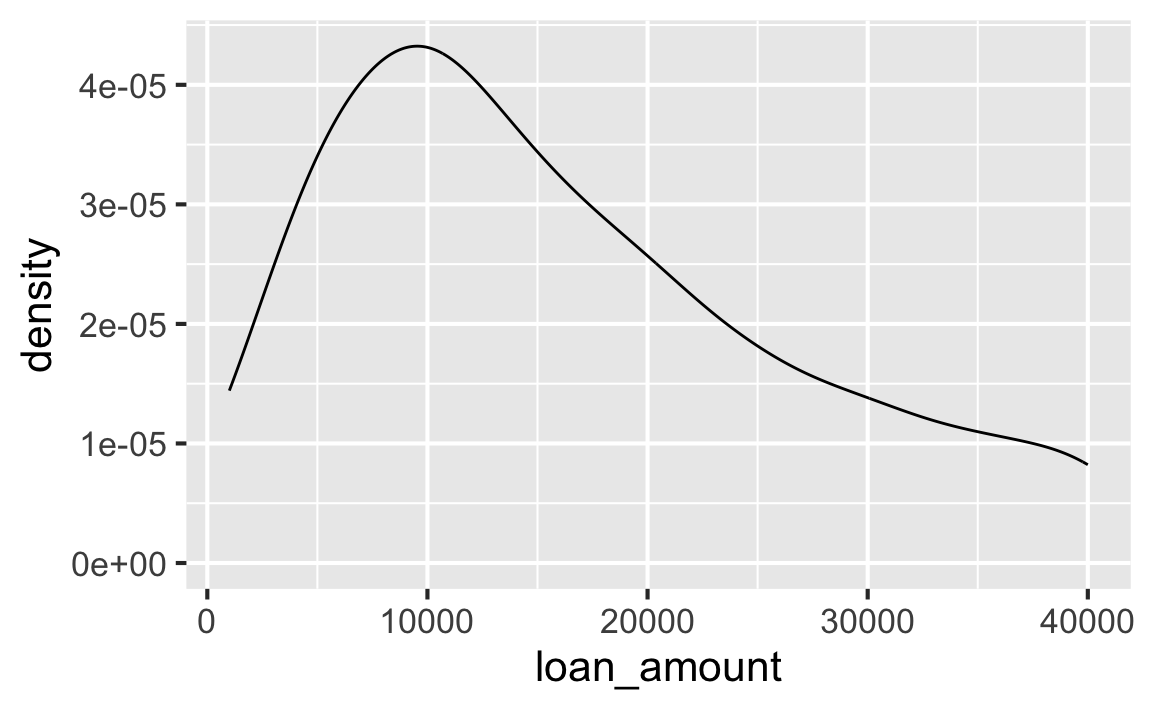
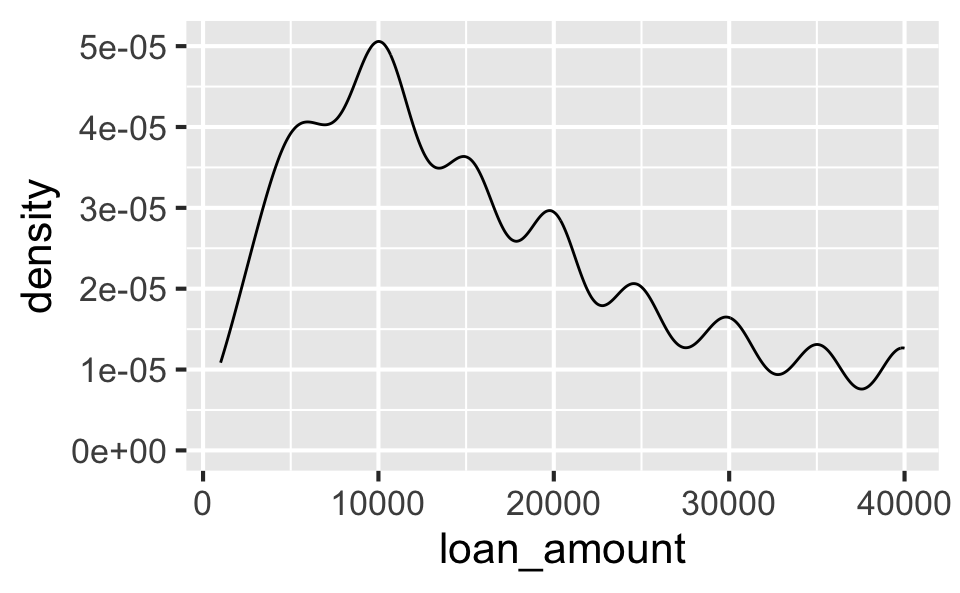
edits

diff --git a/_site/slides/3-3-1-visualize-summarize-numerical/3-3-1-visualize-summarize-numerical.html b/_site/slides/3-3-1-visualize-summarize-numerical/3-3-1-visualize-summarize-numerical.html
@@ -519,53 +519,75 @@ $ debt_to_income &lt;dbl&gt; 18.01, 5.04, 21.15, 10.16, 57.96, 6…</code></pre>
 </div>
 </div>
 </div>
-</section><section id="histograms-and-binwidth" class="slide level2 nostretch"><h2>Histograms and binwidth</h2>
+</section><section id="histograms-and-binwidth" class="slide level2"><h2>Histograms and binwidth</h2>
 <div class="cell">
-<div class="sourceCode cell-code" id="cb7"><pre class="sourceCode numberSource r number-lines code-with-copy"><code class="sourceCode r"><span id="cb7-1"><a></a><span class="fu">ggplot</span>(loans, <span class="fu">aes</span>(<span class="at">x =</span> loan_amount)) <span class="sc">+</span></span>
-<span id="cb7-2"><a></a>  <span class="fu">geom_histogram</span>(<span class="at">binwidth =</span> <span class="dv">1000</span>)</span></code><button title="Copy to Clipboard" class="code-copy-button"><i class="bi"></i></button></pre></div>
+<div class="sourceCode cell-code" id="cb7"><pre class="sourceCode numberSource r number-lines code-with-copy"><code class="sourceCode r"><span id="cb7-1"><a></a>p_loans <span class="ot">&lt;-</span> <span class="fu">ggplot</span>(loans, <span class="fu">aes</span>(<span class="at">x =</span> loan_amount))</span></code><button title="Copy to Clipboard" class="code-copy-button"><i class="bi"></i></button></pre></div>
+</div>
+<p><br></p>
+<div class="columns">
+<div class="column fragment" style="width:33%;">
+<div class="cell">
+<div class="sourceCode cell-code" id="cb8"><pre class="sourceCode numberSource r number-lines code-with-copy"><code class="sourceCode r"><span id="cb8-1"><a></a>p_loans <span class="sc">+</span></span>
+<span id="cb8-2"><a></a>  <span class="fu">geom_histogram</span>(</span>
+<span id="cb8-3"><a></a>    <span class="at">binwidth =</span> <span class="dv">1000</span></span>
+<span id="cb8-4"><a></a>  )</span></code><button title="Copy to Clipboard" class="code-copy-button"><i class="bi"></i></button></pre></div>
 <div class="cell-output-display">
 <div>
-<figure><p><img data-src="3-3-1-visualize-summarize-numerical_files/figure-revealjs/unnamed-chunk-10-1.png" width="576"></p>
+<figure><p><img data-src="3-3-1-visualize-summarize-numerical_files/figure-revealjs/unnamed-chunk-11-1.png" width="480"></p>
 </figure>
 </div>
 </div>
 </div>
-</section><section id="histograms-and-binwidth-1" class="slide level2 nostretch"><h2>Histograms and binwidth</h2>
+</div>
+<div class="column fragment" style="width:33%;">
 <div class="cell">
-<div class="sourceCode cell-code" id="cb8"><pre class="sourceCode numberSource r number-lines code-with-copy"><code class="sourceCode r"><span id="cb8-1"><a></a><span class="fu">ggplot</span>(loans, <span class="fu">aes</span>(<span class="at">x =</span> loan_amount)) <span class="sc">+</span></span>
-<span id="cb8-2"><a></a>  <span class="fu">geom_histogram</span>(<span class="at">binwidth =</span> <span class="dv">5000</span>)</span></code><button title="Copy to Clipboard" class="code-copy-button"><i class="bi"></i></button></pre></div>
+<div class="sourceCode cell-code" id="cb9"><pre class="sourceCode numberSource r number-lines code-with-copy"><code class="sourceCode r"><span id="cb9-1"><a></a>p_loans <span class="sc">+</span></span>
+<span id="cb9-2"><a></a>  <span class="fu">geom_histogram</span>(</span>
+<span id="cb9-3"><a></a>    <span class="at">binwidth =</span> <span class="dv">5000</span></span>
+<span id="cb9-4"><a></a>  )</span></code><button title="Copy to Clipboard" class="code-copy-button"><i class="bi"></i></button></pre></div>
 <div class="cell-output-display">
 <div>
-<figure><p><img data-src="3-3-1-visualize-summarize-numerical_files/figure-revealjs/unnamed-chunk-11-1.png" width="576"></p>
+<figure><p><img data-src="3-3-1-visualize-summarize-numerical_files/figure-revealjs/unnamed-chunk-12-1.png" width="480"></p>
 </figure>
 </div>
 </div>
 </div>
-</section><section id="histograms-and-binwidth-2" class="slide level2 nostretch"><h2>Histograms and binwidth</h2>
+</div>
+<div class="column fragment" style="width:33%;">
 <div class="cell">
-<div class="sourceCode cell-code" id="cb9"><pre class="sourceCode numberSource r number-lines code-with-copy"><code class="sourceCode r"><span id="cb9-1"><a></a><span class="fu">ggplot</span>(loans, <span class="fu">aes</span>(<span class="at">x =</span> loan_amount)) <span class="sc">+</span></span>
-<span id="cb9-2"><a></a>  <span class="fu">geom_histogram</span>(<span class="at">binwidth =</span> <span class="dv">20000</span>)</span></code><button title="Copy to Clipboard" class="code-copy-button"><i class="bi"></i></button></pre></div>
+<div class="sourceCode cell-code" id="cb10"><pre class="sourceCode numberSource r number-lines code-with-copy"><code class="sourceCode r"><span id="cb10-1"><a></a>p_loans <span class="sc">+</span></span>
+<span id="cb10-2"><a></a>  <span class="fu">geom_histogram</span>(</span>
+<span id="cb10-3"><a></a>    <span class="at">binwidth =</span> <span class="dv">20000</span></span>
+<span id="cb10-4"><a></a>  )</span></code><button title="Copy to Clipboard" class="code-copy-button"><i class="bi"></i></button></pre></div>
 <div class="cell-output-display">
 <div>
-<figure><p><img data-src="3-3-1-visualize-summarize-numerical_files/figure-revealjs/unnamed-chunk-12-1.png" width="576"></p>
+<figure><p><img data-src="3-3-1-visualize-summarize-numerical_files/figure-revealjs/unnamed-chunk-13-1.png" width="480"></p>
 </figure>
+</div>
+</div>
 </div>
 </div>
 </div>
 </section><section id="histogram-customization" class="slide level2"><h2>Histogram customization</h2>
 <div class="cell columns column-output-location">
 <div class="column">
-<div class="sourceCode cell-code" id="cb10" data-code-line-numbers="|2|3-7"><pre class="sourceCode numberSource r number-lines code-with-copy"><code class="sourceCode r"><span id="cb10-1"><a></a><span class="fu">ggplot</span>(loans, <span class="fu">aes</span>(<span class="at">x =</span> loan_amount)) <span class="sc">+</span></span>
-<span id="cb10-2"><a></a>  <span class="fu">geom_histogram</span>(<span class="at">binwidth =</span> <span class="dv">5000</span>) <span class="sc">+</span></span>
-<span id="cb10-3"><a></a>  <span class="fu">labs</span>(</span>
-<span id="cb10-4"><a></a>    <span class="at">x =</span> <span class="st">"Loan amount ($)"</span>,</span>
-<span id="cb10-5"><a></a>    <span class="at">y =</span> <span class="st">"Frequency"</span>,</span>
-<span id="cb10-6"><a></a>    <span class="at">title =</span> <span class="st">"Amounts of Lending Club loans"</span></span>
-<span id="cb10-7"><a></a>  )</span></code><button title="Copy to Clipboard" class="code-copy-button"><i class="bi"></i></button></pre></div>
+<div class="sourceCode cell-code" id="cb11" data-code-line-numbers="|2|3-7|8|9"><pre class="sourceCode numberSource r number-lines code-with-copy"><code class="sourceCode r"><span id="cb11-1"><a></a><span class="fu">ggplot</span>(loans, <span class="fu">aes</span>(<span class="at">x =</span> loan_amount)) <span class="sc">+</span></span>
+<span id="cb11-2"><a></a>  <span class="fu">geom_histogram</span>(<span class="at">binwidth =</span> <span class="dv">5000</span>) <span class="sc">+</span></span>
+<span id="cb11-3"><a></a>  <span class="fu">labs</span>(</span>
+<span id="cb11-4"><a></a>    <span class="at">x =</span> <span class="st">"Loan amount ($)"</span>,</span>
+<span id="cb11-5"><a></a>    <span class="at">y =</span> <span class="st">"Frequency"</span>,</span>
+<span id="cb11-6"><a></a>    <span class="at">title =</span> <span class="st">"Amounts of Lending Club loans"</span></span>
+<span id="cb11-7"><a></a>  ) <span class="sc">+</span></span>
+<span id="cb11-8"><a></a>  <span class="fu">scale_x_continuous</span>(</span>
+<span id="cb11-9"><a></a>    <span class="at">labels =</span> <span class="fu">label_dollar</span>()</span>
+<span id="cb11-10"><a></a>  ) <span class="sc">+</span></span>
+<span id="cb11-11"><a></a>  <span class="fu">scale_y_continuous</span>(</span>
+<span id="cb11-12"><a></a>    <span class="at">labels =</span> <span class="fu">label_number</span>(<span class="at">big.mark =</span> <span class="st">","</span>)</span>
+<span id="cb11-13"><a></a>  )</span></code><button title="Copy to Clipboard" class="code-copy-button"><i class="bi"></i></button></pre></div>
 </div><div class="column">
 <div class="cell-output-display">
 <div>
-<figure><p><img data-src="3-3-1-visualize-summarize-numerical_files/figure-revealjs/unnamed-chunk-13-1.png" width="576"></p>
+<figure><p><img data-src="3-3-1-visualize-summarize-numerical_files/figure-revealjs/unnamed-chunk-14-1.png" width="576"></p>
 </figure>
 </div>
 </div>
@@ -577,24 +599,24 @@ $ debt_to_income &lt;dbl&gt; 18.01, 5.04, 21.15, 10.16, 57.96, 6…</code></pre>
 <li>Smoothness can be <code>adjust</code>ed</li>
 </ul>
 <div class="columns">
-<div class="column" style="width:50%;">
+<div class="column" style="width:35%;">
 <div class="cell">
-<div class="sourceCode cell-code" id="cb11"><pre class="sourceCode numberSource r number-lines code-with-copy"><code class="sourceCode r"><span id="cb11-1"><a></a><span class="fu">ggplot</span>(loans, <span class="fu">aes</span>(<span class="at">x =</span> loan_amount)) <span class="sc">+</span></span>
-<span id="cb11-2"><a></a>  <span class="fu">geom_density</span>()</span></code><button title="Copy to Clipboard" class="code-copy-button"><i class="bi"></i></button></pre></div>
+<div class="sourceCode cell-code" id="cb12"><pre class="sourceCode numberSource r number-lines code-with-copy"><code class="sourceCode r"><span id="cb12-1"><a></a>p_loans<span class="sc">+</span></span>
+<span id="cb12-2"><a></a>  <span class="fu">geom_density</span>()</span></code><button title="Copy to Clipboard" class="code-copy-button"><i class="bi"></i></button></pre></div>
 <div class="cell-output-display">
 <div>
-<figure><p><img data-src="3-3-1-visualize-summarize-numerical_files/figure-revealjs/unnamed-chunk-14-1.png" width="576"></p>
+<figure><p><img data-src="3-3-1-visualize-summarize-numerical_files/figure-revealjs/unnamed-chunk-15-1.png" width="480"></p>
 </figure>
 </div>
 </div>
 </div>
-</div><div class="column" style="width:50%;">
+</div><div class="column" style="width:35%;">
 <div class="cell">
-<div class="sourceCode cell-code" id="cb12"><pre class="sourceCode numberSource r number-lines code-with-copy"><code class="sourceCode r"><span id="cb12-1"><a></a><span class="fu">ggplot</span>(loans, <span class="fu">aes</span>(<span class="at">x =</span> loan_amount)) <span class="sc">+</span></span>
-<span id="cb12-2"><a></a>  <span class="fu">geom_density</span>(<span class="at">adjust =</span> <span class="dv">2</span>)</span></code><button title="Copy to Clipboard" class="code-copy-button"><i class="bi"></i></button></pre></div>
+<div class="sourceCode cell-code" id="cb13"><pre class="sourceCode numberSource r number-lines code-with-copy"><code class="sourceCode r"><span id="cb13-1"><a></a>p_loans <span class="sc">+</span></span>
+<span id="cb13-2"><a></a>  <span class="fu">geom_density</span>(<span class="at">adjust =</span> <span class="dv">2</span>)</span></code><button title="Copy to Clipboard" class="code-copy-button"><i class="bi"></i></button></pre></div>
 <div class="cell-output-display">
 <div>
-<figure><p><img data-src="3-3-1-visualize-summarize-numerical_files/figure-revealjs/unnamed-chunk-15-1.png" width="576"></p>
+<figure><p><img data-src="3-3-1-visualize-summarize-numerical_files/figure-revealjs/unnamed-chunk-16-1.png" width="480"></p>
 </figure>
 </div>
 </div>
@@ -608,18 +630,7 @@ $ debt_to_income &lt;dbl&gt; 18.01, 5.04, 21.15, 10.16, 57.96, 6…</code></pre>
 <li>Makes outliers very clear (according to a strict definition of an outlier)</li>
 </ul>
 <div class="cell">
-<div class="sourceCode cell-code" id="cb13"><pre class="sourceCode numberSource r number-lines code-with-copy"><code class="sourceCode r"><span id="cb13-1"><a></a><span class="fu">ggplot</span>(loans, <span class="fu">aes</span>(<span class="at">x =</span> interest_rate)) <span class="sc">+</span></span>
-<span id="cb13-2"><a></a>  <span class="fu">geom_boxplot</span>()</span></code><button title="Copy to Clipboard" class="code-copy-button"><i class="bi"></i></button></pre></div>
-<div class="cell-output-display">
-<div>
-<figure><p><img data-src="3-3-1-visualize-summarize-numerical_files/figure-revealjs/unnamed-chunk-16-1.png" width="576"></p>
-</figure>
-</div>
-</div>
-</div>
-</section><section id="box-plot-and-outliers" class="slide level2 nostretch"><h2>Box plot and outliers</h2>
-<div class="cell">
-<div class="sourceCode cell-code" id="cb14"><pre class="sourceCode numberSource r number-lines code-with-copy"><code class="sourceCode r"><span id="cb14-1"><a></a><span class="fu">ggplot</span>(loans, <span class="fu">aes</span>(<span class="at">x =</span> annual_income)) <span class="sc">+</span></span>
+<div class="sourceCode cell-code" id="cb14"><pre class="sourceCode numberSource r number-lines code-with-copy"><code class="sourceCode r"><span id="cb14-1"><a></a>p_loans <span class="sc">+</span></span>
 <span id="cb14-2"><a></a>  <span class="fu">geom_boxplot</span>()</span></code><button title="Copy to Clipboard" class="code-copy-button"><i class="bi"></i></button></pre></div>
 <div class="cell-output-display">
 <div>
@@ -628,23 +639,38 @@ $ debt_to_income &lt;dbl&gt; 18.01, 5.04, 21.15, 10.16, 57.96, 6…</code></pre>
 </div>
 </div>
 </div>
-</section><section id="box-plot-customization" class="slide level2"><h2>Box plot customization</h2>
-<div class="cell columns column-output-location">
-<div class="column">
-<div class="sourceCode cell-code" id="cb15" data-code-line-numbers="|7-10"><pre class="sourceCode numberSource r number-lines code-with-copy"><code class="sourceCode r"><span id="cb15-1"><a></a><span class="fu">ggplot</span>(loans, <span class="fu">aes</span>(<span class="at">x =</span> interest_rate)) <span class="sc">+</span></span>
-<span id="cb15-2"><a></a>  <span class="fu">geom_boxplot</span>() <span class="sc">+</span></span>
-<span id="cb15-3"><a></a>  <span class="fu">labs</span>(</span>
-<span id="cb15-4"><a></a>    <span class="at">x =</span> <span class="st">"Interest rate (%)"</span>, <span class="at">y =</span> <span class="cn">NULL</span>,</span>
-<span id="cb15-5"><a></a>    <span class="at">title =</span> <span class="st">"Interest rates of Lending Club loans"</span></span>
-<span id="cb15-6"><a></a>  ) <span class="sc">+</span></span>
-<span id="cb15-7"><a></a>  <span class="fu">theme</span>(</span>
-<span id="cb15-8"><a></a>    <span class="at">axis.ticks.y =</span> <span class="fu">element_blank</span>(),</span>
-<span id="cb15-9"><a></a>    <span class="at">axis.text.y =</span> <span class="fu">element_blank</span>()</span>
-<span id="cb15-10"><a></a>  )</span></code><button title="Copy to Clipboard" class="code-copy-button"><i class="bi"></i></button></pre></div>
-</div><div class="column">
+</section><section id="box-plot-and-outliers" class="slide level2 nostretch"><h2>Box plot and outliers</h2>
+<div class="cell">
+<div class="sourceCode cell-code" id="cb15"><pre class="sourceCode numberSource r number-lines code-with-copy"><code class="sourceCode r"><span id="cb15-1"><a></a><span class="fu">ggplot</span>(loans, <span class="fu">aes</span>(<span class="at">x =</span> interest_rate)) <span class="sc">+</span></span>
+<span id="cb15-2"><a></a>  <span class="fu">geom_boxplot</span>()</span></code><button title="Copy to Clipboard" class="code-copy-button"><i class="bi"></i></button></pre></div>
 <div class="cell-output-display">
 <div>
 <figure><p><img data-src="3-3-1-visualize-summarize-numerical_files/figure-revealjs/unnamed-chunk-18-1.png" width="576"></p>
+</figure>
+</div>
+</div>
+</div>
+</section><section id="box-plot-customization" class="slide level2"><h2>Box plot customization</h2>
+<div class="cell columns column-output-location">
+<div class="column">
+<div class="sourceCode cell-code" id="cb16" data-code-line-numbers="|3-5|6-10|11-14"><pre class="sourceCode numberSource r number-lines code-with-copy"><code class="sourceCode r"><span id="cb16-1"><a></a><span class="fu">ggplot</span>(loans, <span class="fu">aes</span>(<span class="at">x =</span> interest_rate)) <span class="sc">+</span></span>
+<span id="cb16-2"><a></a>  <span class="fu">geom_boxplot</span>() <span class="sc">+</span></span>
+<span id="cb16-3"><a></a>  <span class="fu">scale_x_continuous</span>(</span>
+<span id="cb16-4"><a></a>    <span class="at">labels =</span> <span class="fu">label_percent</span>()</span>
+<span id="cb16-5"><a></a>  ) <span class="sc">+</span></span>
+<span id="cb16-6"><a></a>  <span class="fu">labs</span>(</span>
+<span id="cb16-7"><a></a>    <span class="at">x =</span> <span class="st">"Interest rate"</span>, </span>
+<span id="cb16-8"><a></a>    <span class="at">y =</span> <span class="cn">NULL</span>,</span>
+<span id="cb16-9"><a></a>    <span class="at">title =</span> <span class="st">"Interest rates of Lending Club loans"</span></span>
+<span id="cb16-10"><a></a>  ) <span class="sc">+</span></span>
+<span id="cb16-11"><a></a>  <span class="fu">theme</span>(</span>
+<span id="cb16-12"><a></a>    <span class="at">axis.ticks.y =</span> <span class="fu">element_blank</span>(),</span>
+<span id="cb16-13"><a></a>    <span class="at">axis.text.y =</span> <span class="fu">element_blank</span>()</span>
+<span id="cb16-14"><a></a>  )</span></code><button title="Copy to Clipboard" class="code-copy-button"><i class="bi"></i></button></pre></div>
+</div><div class="column">
+<div class="cell-output-display">
+<div>
+<figure><p><img data-src="3-3-1-visualize-summarize-numerical_files/figure-revealjs/unnamed-chunk-19-1.png" width="576"></p>
 </figure>
 </div>
 </div>
@@ -658,8 +684,8 @@ $ debt_to_income &lt;dbl&gt; 18.01, 5.04, 21.15, 10.16, 57.96, 6…</code></pre>
 <code>summarize()</code> returns for a summary statistic for all observations in the data:</li>
 </ul>
 <div class="cell">
-<div class="sourceCode cell-code" id="cb16"><pre class="sourceCode numberSource r number-lines code-with-copy"><code class="sourceCode r"><span id="cb16-1"><a></a>loans <span class="sc">|&gt;</span></span>
-<span id="cb16-2"><a></a>  <span class="fu">summarize</span>(<span class="at">mean_loan_amt =</span> <span class="fu">mean</span>(loan_amount))</span></code><button title="Copy to Clipboard" class="code-copy-button"><i class="bi"></i></button></pre></div>
+<div class="sourceCode cell-code" id="cb17"><pre class="sourceCode numberSource r number-lines code-with-copy"><code class="sourceCode r"><span id="cb17-1"><a></a>loans <span class="sc">|&gt;</span></span>
+<span id="cb17-2"><a></a>  <span class="fu">summarize</span>(<span class="at">mean_loan_amt =</span> <span class="fu">mean</span>(loan_amount))</span></code><button title="Copy to Clipboard" class="code-copy-button"><i class="bi"></i></button></pre></div>
 <div class="cell-output cell-output-stdout">
 <pre><code># A tibble: 1 × 1
   mean_loan_amt
@@ -673,11 +699,11 @@ $ debt_to_income &lt;dbl&gt; 18.01, 5.04, 21.15, 10.16, 57.96, 6…</code></pre>
 <code>summarize()</code> can be used to calculate multiple summary statistics as well:</li>
 </ul>
 <div class="cell">
-<div class="sourceCode cell-code" id="cb18"><pre class="sourceCode numberSource r number-lines code-with-copy"><code class="sourceCode r"><span id="cb18-1"><a></a>loans <span class="sc">|&gt;</span></span>
-<span id="cb18-2"><a></a>  <span class="fu">summarize</span>(</span>
-<span id="cb18-3"><a></a>    <span class="at">q25 =</span> <span class="fu">quantile</span>(loan_amount, <span class="fl">0.25</span>),</span>
-<span id="cb18-4"><a></a>    <span class="at">q75 =</span> <span class="fu">quantile</span>(loan_amount, <span class="fl">0.75</span>)</span>
-<span id="cb18-5"><a></a>  )</span></code><button title="Copy to Clipboard" class="code-copy-button"><i class="bi"></i></button></pre></div>
+<div class="sourceCode cell-code" id="cb19"><pre class="sourceCode numberSource r number-lines code-with-copy"><code class="sourceCode r"><span id="cb19-1"><a></a>loans <span class="sc">|&gt;</span></span>
+<span id="cb19-2"><a></a>  <span class="fu">summarize</span>(</span>
+<span id="cb19-3"><a></a>    <span class="at">q25 =</span> <span class="fu">quantile</span>(loan_amount, <span class="fl">0.25</span>),</span>
+<span id="cb19-4"><a></a>    <span class="at">q75 =</span> <span class="fu">quantile</span>(loan_amount, <span class="fl">0.75</span>)</span>
+<span id="cb19-5"><a></a>  )</span></code><button title="Copy to Clipboard" class="code-copy-button"><i class="bi"></i></button></pre></div>
 <div class="cell-output cell-output-stdout">
 <pre><code># A tibble: 1 × 2
     q25   q75
@@ -690,13 +716,13 @@ $ debt_to_income &lt;dbl&gt; 18.01, 5.04, 21.15, 10.16, 57.96, 6…</code></pre>
 </h2>
 <p><code>summarize()</code> will work even if you don’t name your summary statistic, or give it a non-informative/bad name, but I don’t recommend it!</p>
 <div class="columns">
-<div class="column" style="width:25%;">
+<div class="column fragment" style="width:25%;">
 <div class="cell">
-<div class="sourceCode cell-code" id="cb20" data-code-line-numbers="|3"><pre class="sourceCode numberSource r number-lines code-with-copy"><code class="sourceCode r"><span id="cb20-1"><a></a><span class="co"># good</span></span>
-<span id="cb20-2"><a></a>loans <span class="sc">|&gt;</span></span>
-<span id="cb20-3"><a></a>  <span class="fu">summarize</span>(</span>
-<span id="cb20-4"><a></a>    <span class="at">mean_loan_amt =</span> <span class="fu">mean</span>(loan_amount)</span>
-<span id="cb20-5"><a></a>  )</span></code><button title="Copy to Clipboard" class="code-copy-button"><i class="bi"></i></button></pre></div>
+<div class="sourceCode cell-code" id="cb21" data-code-line-numbers="4"><pre class="sourceCode numberSource r number-lines code-with-copy"><code class="sourceCode r"><span id="cb21-1"><a></a><span class="co"># good</span></span>
+<span id="cb21-2"><a></a>loans <span class="sc">|&gt;</span></span>
+<span id="cb21-3"><a></a>  <span class="fu">summarize</span>(</span>
+<span id="cb21-4"><a></a>    <span class="at">mean_loan_amt =</span> <span class="fu">mean</span>(loan_amount)</span>
+<span id="cb21-5"><a></a>  )</span></code><button title="Copy to Clipboard" class="code-copy-button"><i class="bi"></i></button></pre></div>
 <div class="cell-output cell-output-stdout">
 <pre><code># A tibble: 1 × 1
   mean_loan_amt
@@ -704,13 +730,14 @@ $ debt_to_income &lt;dbl&gt; 18.01, 5.04, 21.15, 10.16, 57.96, 6…</code></pre>
 1        16362.</code></pre>
 </div>
 </div>
-</div><div class="column" style="width:25%;">
+</div>
+<div class="column fragment" style="width:25%;">
 <div class="cell">
-<div class="sourceCode cell-code" id="cb22" data-code-line-numbers="|3"><pre class="sourceCode numberSource r number-lines code-with-copy"><code class="sourceCode r"><span id="cb22-1"><a></a><span class="co"># bad</span></span>
-<span id="cb22-2"><a></a>loans <span class="sc">|&gt;</span></span>
-<span id="cb22-3"><a></a>  <span class="fu">summarize</span>(</span>
-<span id="cb22-4"><a></a>    <span class="fu">mean</span>(loan_amount)</span>
-<span id="cb22-5"><a></a>  )</span></code><button title="Copy to Clipboard" class="code-copy-button"><i class="bi"></i></button></pre></div>
+<div class="sourceCode cell-code" id="cb23" data-code-line-numbers="4"><pre class="sourceCode numberSource r number-lines code-with-copy"><code class="sourceCode r"><span id="cb23-1"><a></a><span class="co"># bad</span></span>
+<span id="cb23-2"><a></a>loans <span class="sc">|&gt;</span></span>
+<span id="cb23-3"><a></a>  <span class="fu">summarize</span>(</span>
+<span id="cb23-4"><a></a>    <span class="fu">mean</span>(loan_amount)</span>
+<span id="cb23-5"><a></a>  )</span></code><button title="Copy to Clipboard" class="code-copy-button"><i class="bi"></i></button></pre></div>
 <div class="cell-output cell-output-stdout">
 <pre><code># A tibble: 1 × 1
   `mean(loan_amount)`
@@ -718,13 +745,14 @@ $ debt_to_income &lt;dbl&gt; 18.01, 5.04, 21.15, 10.16, 57.96, 6…</code></pre>
 1              16362.</code></pre>
 </div>
 </div>
-</div><div class="column" style="width:25%;">
+</div>
+<div class="column fragment" style="width:25%;">
 <div class="cell">
-<div class="sourceCode cell-code" id="cb24" data-code-line-numbers="|3"><pre class="sourceCode numberSource r number-lines code-with-copy"><code class="sourceCode r"><span id="cb24-1"><a></a><span class="co"># bad</span></span>
-<span id="cb24-2"><a></a>loans <span class="sc">|&gt;</span></span>
-<span id="cb24-3"><a></a>  <span class="fu">summarize</span>(</span>
-<span id="cb24-4"><a></a>    <span class="at">temp =</span> <span class="fu">mean</span>(loan_amount)</span>
-<span id="cb24-5"><a></a>  )</span></code><button title="Copy to Clipboard" class="code-copy-button"><i class="bi"></i></button></pre></div>
+<div class="sourceCode cell-code" id="cb25" data-code-line-numbers="4"><pre class="sourceCode numberSource r number-lines code-with-copy"><code class="sourceCode r"><span id="cb25-1"><a></a><span class="co"># bad</span></span>
+<span id="cb25-2"><a></a>loans <span class="sc">|&gt;</span></span>
+<span id="cb25-3"><a></a>  <span class="fu">summarize</span>(</span>
+<span id="cb25-4"><a></a>    <span class="at">temp =</span> <span class="fu">mean</span>(loan_amount)</span>
+<span id="cb25-5"><a></a>  )</span></code><button title="Copy to Clipboard" class="code-copy-button"><i class="bi"></i></button></pre></div>
 <div class="cell-output cell-output-stdout">
 <pre><code># A tibble: 1 × 1
     temp

diff --git a/_site/index.html b/_site/index.html
@@ -304,9 +304,14 @@ Title
 <a href="./slides/3-2-visualize-summarize-categorical/3-2-visualize-summarize-categorical.html" class="title listing-title">Visualizing and summarizing categorical data</a>
 </td>
 </tr>
-<tr data-index="6" data-listing-file-modified-sort="1710470674675" data-listing-reading-time-sort="5" data-listing-word-count-sort="833" data-listing-title-sort="Visualizing and summarizing numerical data" data-listing-filename-sort="3-3-1-visualize-summarize-numerical.qmd">
+<tr data-index="6" data-listing-file-modified-sort="1710474097389" data-listing-reading-time-sort="5" data-listing-word-count-sort="897" data-listing-title-sort="Visualizing and summarizing numerical data" data-listing-filename-sort="3-3-1-visualize-summarize-numerical.qmd">
 <td>
 <a href="./slides/3-3-1-visualize-summarize-numerical/3-3-1-visualize-summarize-numerical.html" class="title listing-title">Visualizing and summarizing numerical data</a>
+</td>
+</tr>
+<tr data-index="7" data-listing-file-modified-sort="1710473322725" data-listing-reading-time-sort="5" data-listing-word-count-sort="833" data-listing-title-sort="Visualizing and summarizing relationships" data-listing-filename-sort="3-3-2-visualize-summarize-relationships.qmd">
+<td>
+<a href="./slides/3-3-2-visualize-summarize-relationships/3-3-2-visualize-summarize-relationships.html" class="title listing-title">Visualizing and summarizing relationships</a>
 </td>
 </tr>
 </tbody>
